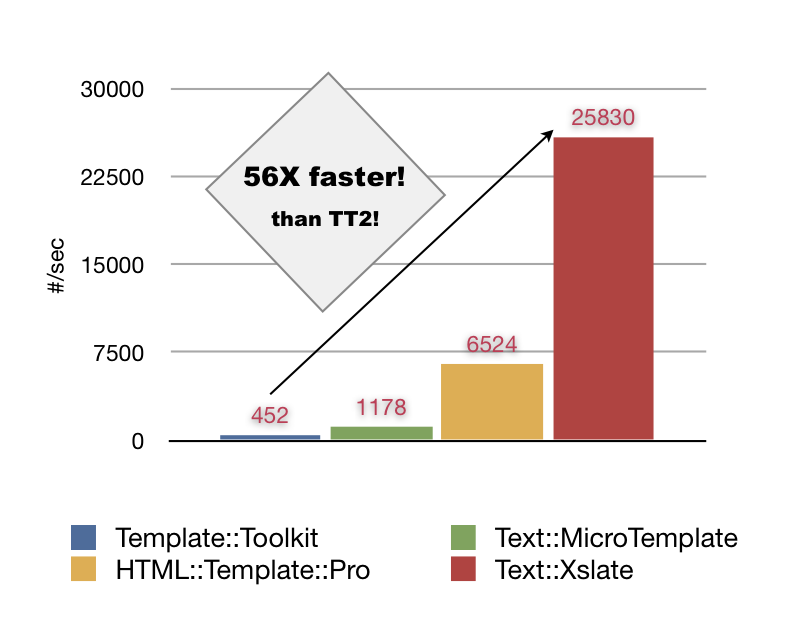
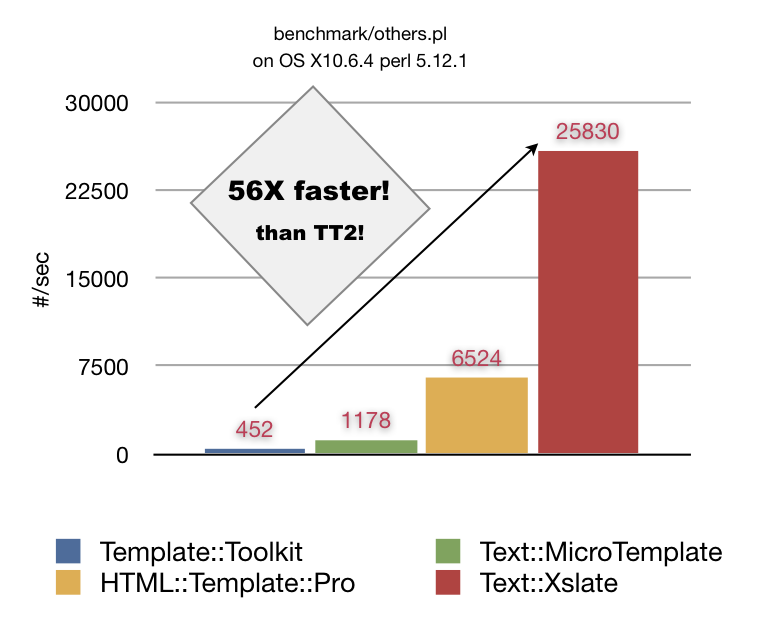
even more direct message on the graph

diff --git a/index.html b/index.html
@@ -15,13 +15,13 @@
     </div>
     <div id="content">
         <div class="GraphContainer">
-            <a href="http://gyazo.com/d6dc2cabc84821352aa4b1449c159341.png"><img width="200" height="166" src="http://gyazo.com/d6dc2cabc84821352aa4b1449c159341.png" /></a>
+            <a href="img/benchmark.png"><img width="388" height="313" src="img/benchmark.png" /></a>
         </div>
 
         <h2>What is Xslate?</h2>
         <p>Xslate is a template engine for Perl5 with the following features:</p>
         <ul>
-            <li>Extremely fast - Up to <em>35 times</em> faster than TT2!</li>
+            <li>Extremely fast - Up to <em>30~50 times</em> faster than TT2!</li>
             <li>Supports multiple template syntaxes - TT2 compatible syntax, for example</li>
             <li>Easy to enhance - by importing subroutines and/or by calling object methods</li>
             <li>Safe - Escapes HTML meta characters by default</li>
